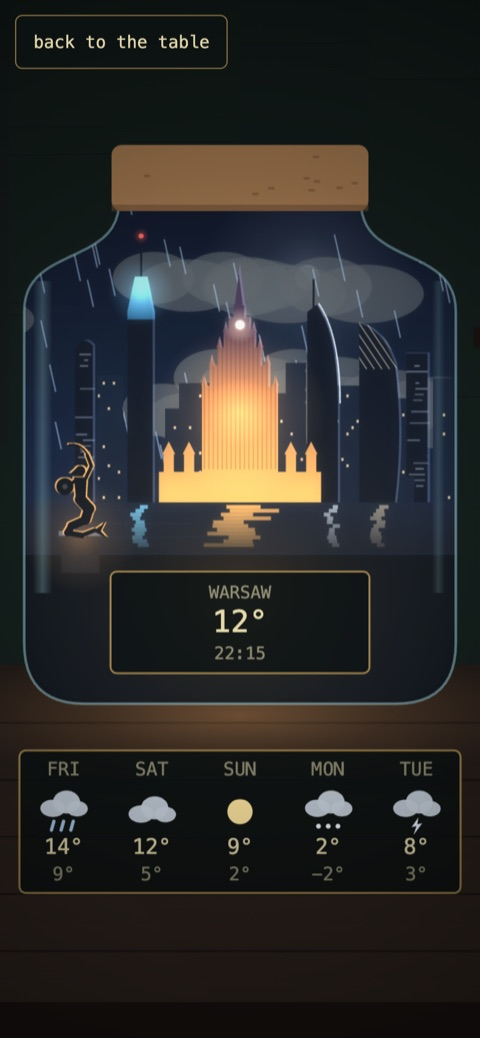
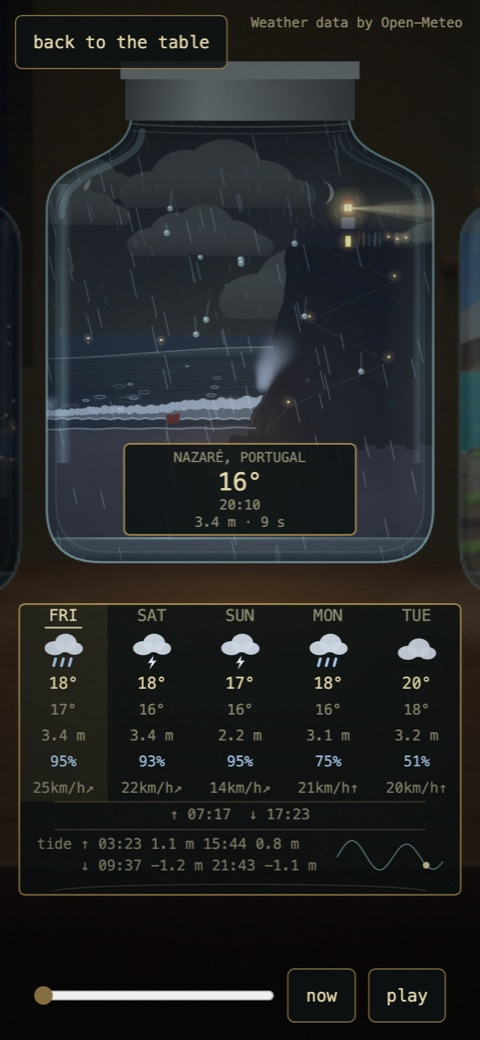
docs: the README for the launch: all three jars, fresh pictures, what you can do
New screenshots of the table, each jar by day and night, the four wave sizes,
the four Fitz Roy bands, the weather kinds, a storm and a phone. Adds the live
link, the shake, the time-lapse, the day preview and each jar's own life.

Claude-Session: https://claude.ai/code/session_01L9HtRGeXZgKwKkUsebrUgD

diff --git a/README.md b/README.md
@@ -5,6 +5,10 @@
 <h1 align="center">jar</h1>
 
 <p align="center">
+  <a href="https://jar-pearl.vercel.app"><b>jar-pearl.vercel.app</b></a>
+</p>
+
+<p align="center">
   <img src="https://img.shields.io/badge/Canvas%202D-no%20build%20step-1b2440" alt="Canvas 2D, no build step">
   <img src="https://img.shields.io/badge/runtime%20libraries-none-b8975a" alt="no runtime libraries">
   <img src="https://img.shields.io/badge/node-22%2B-3c873a" alt="Node 22+">
@@ -21,87 +25,178 @@ on each glass gives the city and country, the temperature and the local time,
 on Nazaré's jar the swell as well, and on El Chaltén's whether you can see
 Fitz Roy today.
 
-<img src="docs/images/table.jpg" alt="The shed: a moonlit window on the left and two glowing jars on the wooden table. Left, a corked jar with Warsaw in the rain, the floodlit Palace of Culture between the towers, labelled WARSAW, POLAND 12° 16:44. Right, a tin-lidded jar with the Nazaré cliff, its fort and red-roofed lighthouse above a breaking wave with small surfers, labelled NAZARÉ, PORTUGAL 18° 15:44 4.2 m · 14 s." width="880">
+<img src="docs/images/table.jpg" alt="The shed: a window with a crescent moon and three glowing jars on the wooden table. Left, a corked jar with Warsaw after dark, the Palace of Culture floodlit gold, labelled WARSAW, POLAND 6° 17:50. Middle, a tin-lidded jar with the Nazaré cliff and lighthouse, a green wave breaking and the sun low over the sea, labelled NAZARÉ, PORTUGAL 18° 16:50 4.4 m · 14 s. Right, a corked jar with Fitz Roy above a turquoise lake in daylight, a banner cloud streaming off the summit, labelled EL CHALTÉN, ARGENTINA 12° 13:50 FITZ ROY · SMOKING. A chalked slate on the table says click a jar." width="880">
 
-## What you're looking at
+The picture above is one moment: evening in Warsaw, the last half hour of sun
+in Nazaré and early afternoon in Patagonia. Nothing in it is a photograph or an
+image file; every jar is drawn in code, every frame.
 
-**The moon is the real one.** The moon in the jars and in the window shows its phase for the moment, from a thin crescent to full, and on a new moon night it is almost gone.
+## What you can do
 
-**Click or tap a jar and it lifts closer.** Until you lift one for the first
-time, a small chalked slate lying on the table says so ("tap a jar" on a phone,
-"click a jar" on a laptop). A card beside it shows the next
-five days: today is marked with a band and an underline (and named *today* for
-screen readers), each day gives its chance of rain and its strongest wind with
-an arrow for the way it blows, and a strip along the bottom gives today's
-sunrise and sunset (on Nazaré, a second line adds today's high and low tide
-times) with a thin arc under it whose dot shows how far the sun has come across the
-sky. On a lifted jar the arrows, the arrow keys or a swipe move to the other
-jar. Press Escape or the back button to set it down. The shed's own window
-follows *your* clock, not either city's. A slider under the lifted jar previews
-the next 24 hours (the light and the hourly weather, with the label marked
-"+5 h"); let go of it or press *now* and the jar snaps back to the present.
+- **Click or tap a jar** and it lifts closer, with a five-day forecast card
+  beside it (under it on a phone). Until you lift one for the first time, a
+  chalked slate on the table says so.
+- **Press the lifted jar** and it shakes: it leans, the scene sloshes, and a
+  flurry lifts off the floor of the jar and settles (snow when it is cold
+  there, warm glitter when it is not).
+- **Drag the slider** under the jar to preview the next 24 hours: the light and
+  the hourly weather move with it and the label says how far ahead you are
+  ("+5 h"). Let go, or press *now*, and the jar returns to the present.
+- **Press *play*** and the next 24 hours run by in twenty seconds.
+- **Click a day on the card** and the jar shows that day's early afternoon;
+  click it again, or press Escape, to come back.
+- **Arrows, the arrow keys or a swipe** move to the next jar. Escape or *back
+  to the table* sets the jar down.
+- **Move the pointer** and the scene slides a little behind the glass, as it
+  would if you leaned to one side.
+
+The shed's own window follows *your* clock, not any city's, and its moon is the
+real one: the right phase for tonight, almost gone at new moon. If your system
+asks for reduced motion, the page calms down: the jar does not shake, the
+time-lapse steps an hour at a time, the clouds barely drift and a storm draws
+no bolt.
+
+## The three jars
+
+### Warsaw
 
 <table>
   <tr>
-    <td width="50%"><img src="docs/images/night.jpg" alt="The lifted jar at 01:30 in Warsaw: the Palace of Culture floodlit gold with a gold reflection in the river, Varso's crown glowing blue under a red aviation light, the Spire with a thin white edge, and the Mermaid outlined in warm light on her plinth at the left. A five-day forecast card stands beside the jar." width="430"></td>
-    <td width="50%"><img src="docs/images/morning.jpg" alt="The same jar at 10:30: a blue sky with the sun on the left, the towers as flat cool silhouettes with a bright rim on their left edges, a calm blue river above the label, and the Mermaid as a dark silhouette on her plinth." width="430"></td>
+    <td width="50%"><img src="docs/images/warsaw-night.jpg" alt="The Warsaw jar lifted at 19:10: the Palace of Culture floodlit gold, Varso's crown glowing blue under a red aviation light, lit windows in the towers, car lights on the cable-stayed bridge and the city's lamps reflected in the Vistula. The forecast card beside it lists five days with rain chance and wind, and sunrise 06:51, sunset 15:48." width="430"></td>
+    <td width="50%"><img src="docs/images/warsaw-day.jpg" alt="The same jar at 11:20 on a November morning: glass towers under a blue sky with drifting clouds, the sand-coloured Palace in the middle, the low city along the far bank, a small boat on the river, the Mermaid on her plinth, and a bank of autumn-brown trees in the foreground." width="430"></td>
   </tr>
   <tr>
-    <td align="center"><b>Night: the Floodlit Nocturne.</b> The Palace glows gold, Varso's crown glows blue under a red needle light, and the towers reflect in the river.</td>
-    <td align="center"><b>Day: rim-lit silhouettes.</b> Each tower has a bright edge on the side the sun is on. At dusk the two blend.</td>
+    <td align="center"><b>Night.</b> The Palace glows gold, Varso's crown glows blue, and the city reflects in the river. Windows go out one by one as the night gets late.</td>
+    <td align="center"><b>Day.</b> Each tower has a bright edge on the side the sun is on. The forest on the near bank follows the seasons.</td>
   </tr>
 </table>
 
 The skyline is the downtown cluster: the Cosmopolitan, Varso, the Palace of
-Culture and Science, Warsaw Spire, Złota 44 and the InterContinental. The
-Mermaid stands on the left bank with her sword raised. The jar's glass streaks
-sit at the edges of the glass, so they never cover a tower.
+Culture and Science, Warsaw Spire, Złota 44 and the InterContinental, with the
+Świętokrzyski bridge across the Vistula and the Mermaid on the left bank with
+her sword raised. Around them the jar has a small life of its own:
 
-### The second jar: Nazaré
+- a **boat** crosses the river by day, **birds** cross the sky in fair weather,
+  and traffic runs over the bridge;
+- in a hard frost the river carries **ice** and **steam** rises from a few
+  roofs, leaning with the wind;
+- a **Christmas tree** stands at the Palace's foot from 6 December to
+  6 January, and there are **fireworks** over the skyline from 23:55 on New
+  Year's Eve to 00:20;
+- in a thunderstorm, every other bolt strikes the Palace's needle.
+
+### Nazaré
 
 <table>
   <tr>
-    <td width="62%"><img src="docs/images/nazare.jpg" alt="The Nazaré jar lifted: the Sítio cliff with the São Miguel Arcanjo fort and its lighthouse on the right, a turquoise wave rolling in with three small surfers, the label reading NAZARÉ, PORTUGAL 18° 15:44 4.2 m · 14 s. Beside it the forecast card lists SUN to THU, each with a peak wave height under the day name; SUN is underlined and shaded as today, and the bottom strip reads sunrise 07:38, sunset 18:30 above a thin arc with the sun dot near its right end." width="530"></td>
+    <td width="62%"><img src="docs/images/nazare-sunset.jpg" alt="The Nazaré jar lifted at 17:02, twenty minutes before sunset: the sun low over the Atlantic in a pink and violet sky, a green wave breaking toward the Sítio cliff, a jet ski on the water, the fort and its red lighthouse on top of the cliff with a zigzag path down its face, and a red flag on the beach. The card lists five days, each with its peak wave height, then sunrise 07:18, sunset 17:22, the four tide times with their heights and a tide curve." width="530"></td>
     <td width="38%">
-      <b>A wave sized by the real sea.</b> The Sítio cliff, the São Miguel Arcanjo fort and its red-roofed lighthouse stand above the Praia do Norte wave. By day a few surfers ride it; at night the lighthouse beam sweeps the foam.<br><br>
-      The wave's size follows the real wave height off the coast: <b>calm</b> under 1 m, <b>moderate</b> 1–3 m, <b>big</b> 3–6 m, <b>giant</b> from 6 m. With no reading it shows a moderate two-metre day.<br><br>
-      The label adds the swell (height · period) as a fourth line, and the forecast card gives each day's peak wave height and today's high and low tide times, each with its height in metres, under a small tide curve with a dot for now. Slide the time ahead through the day and the wave resizes to the forecast swell for that hour. The waves roll in at a gentle pace. The jar keeps Lisbon time and wears a tin lid instead of Warsaw's cork.
+      <b>A wave sized by the real sea.</b> The Sítio headland, the São Miguel Arcanjo fort and its lighthouse stand above the Praia do Norte wave. The view faces west, so this jar has its own sun, which sets into the sea.<br><br>
+      The label adds the swell (height · period) as a fourth line. The card gives each day's peak wave height and today's high and low tides with their heights, over a small tide curve with a dot for now. Slide the time ahead and the wave resizes to the forecast swell for that hour.<br><br>
+      By day surfers ride the wave and people watch from the fort's roof. On a warm, fair, gentle day umbrellas come out on the sand; on a big day the red flag goes up. At night the lighthouse beam sweeps the foam and fishing boats show their lights on the horizon. The jar keeps Lisbon time and wears a tin lid.
     </td>
   </tr>
 </table>
 
-### The third jar: El Chaltén
-
-Not the town but the view from the east shore of Laguna de los Tres, looking
-west: the southern night sky, the blade of Poincenot and the fin of Fitz Roy
-with smaller needles stepping down to the right, the glacier, the big brown
-moraine, the turquoise lake and a gravel shore with a rock, a few shrubs and a
-hiker by day. It answers the question the whole town asks each morning, *can
-you see Fitz Roy today?*, from the real cloud, weather kind and wind, and the
-label's fourth line says which: `FITZ ROY · CLEAR`, `SMOKING` (cloud under
-60 % and wind from 25 km/h: a banner cloud streams off the summit the way the
-wind blows), `CAPPED` (cloud 60 % and over: a deck sits on the summits) or
-`HIDDEN` (cloud 85 % and over, or fog, drizzle, rain, snow, storm: the wall is
-gone). With no reading the peak is drawn clear with a short plume and there is
-no fourth line. First light lands on the summit and walks down the wall after
-sunrise and the lake mirrors it in still air; the sun sets behind the wall; a
-few headlamps wait on the shore in the last ninety minutes before sunrise; the
-seasons run the southern way round (a frozen white lake from June to August).
-The rock is faceted granite built once from a fixed seed and shaded by the
-hour. The jar keeps El Chaltén's own time (`America/Argentina/Rio_Gallegos`) and
-wears a cork lid. It has no screenshot among the pictures above yet; the smoke
-check writes `el-chalten-*.png` to `test-output/`.
+The wave follows the real wave height off the coast, in four sizes. With no
+reading it shows a moderate two-metre day.
 
 <table>
   <tr>
-    <td width="62%"><img src="docs/images/storm.jpg" alt="The lifted jar in a thunderstorm, caught at the moment of a lightning flash: the sky inside the jar turned white, rain streaking down, the floodlit Palace still glowing." width="530"></td>
-    <td width="38%"><img src="docs/images/phone.jpg" alt="The page on a phone, portrait: the lifted jar fills the screen in the rain at night, and the five-day forecast runs as a row under it." width="300"></td>
+    <td width="25%"><img src="docs/images/wave-calm.jpg" alt="Nazaré at noon with a 0.6 m swell: a low ripple of a wave." width="210"></td>
+    <td width="25%"><img src="docs/images/wave-moderate.jpg" alt="Nazaré at noon with a 2 m swell: a modest breaking wave with surfers." width="210"></td>
+    <td width="25%"><img src="docs/images/wave-big.jpg" alt="Nazaré at noon with a 4.6 m swell: a tall wave reaching partway up the cliff, the red flag on the beach." width="210"></td>
+    <td width="25%"><img src="docs/images/wave-giant.jpg" alt="Nazaré at noon with a 9.5 m swell: a tall breaking wave full of white water, spray climbing the cliff and the red flag on the beach." width="210"></td>
   </tr>
   <tr>
-    <td align="center"><b>Real weather.</b> Each jar shows rain, snow (with caps on the roofs), fog, dew on the glass, drifting clouds, wind and lightning. When a new wind reading arrives, the clouds carry on from where they are instead of jumping.</td>
-    <td align="center"><b>Phone and laptop</b> share one drawing, so the jars look the same on both. The forecast moves under the jar on a phone, and a swipe moves between jars.</td>
+    <td align="center"><b>Calm</b><br>under 1 m</td>
+    <td align="center"><b>Moderate</b><br>1–3 m</td>
+    <td align="center"><b>Big</b><br>3–6 m</td>
+    <td align="center"><b>Giant</b><br>from 6 m</td>
   </tr>
 </table>
+
+### El Chaltén
+
+<table>
+  <tr>
+    <td width="50%"><img src="docs/images/el-chalten-first-light.jpg" alt="The El Chaltén jar lifted at 06:22, just after sunrise: Fitz Roy and its needles glowing orange in the first light, the glacier below them, and the whole wall mirrored in a still turquoise lake. A hiker stands on the gravel shore. The label reads EL CHALTÉN, ARGENTINA 4° 06:22 FITZ ROY · CLEAR." width="430"></td>
+    <td width="50%"><img src="docs/images/el-chalten-day.jpg" alt="The same jar at 12:30: grey granite towers with snow in their gullies under a blue sky, the glacier and brown moraine, the turquoise lake mirroring the wall, and hikers on the shore among green shrubs." width="430"></td>
+  </tr>
+  <tr>
+    <td align="center"><b>First light.</b> It lands on the summit and walks down the wall after sunrise. In still air the lake mirrors it.</td>
+    <td align="center"><b>Midday.</b> Faceted granite, shaded by the hour, with hikers on the shore by day.</td>
+  </tr>
+</table>
+
+Not the town but the view from the east shore of Laguna de los Tres, looking
+west: the blade of Poincenot and the fin of Fitz Roy with smaller needles
+stepping down beside them, the glacier, the moraine, the lake and a gravel
+shore. It answers the question the whole town asks each morning, *can you see
+Fitz Roy today?*, from the real cloud, weather and wind, and the label's fourth
+line says which:
+
+<table>
+  <tr>
+    <td width="25%"><img src="docs/images/band-clear.jpg" alt="El Chaltén at midday, label FITZ ROY · CLEAR: the whole wall sharp against a blue sky." width="210"></td>
+    <td width="25%"><img src="docs/images/band-smoking.jpg" alt="El Chaltén at midday, label FITZ ROY · SMOKING: a white banner cloud streaming sideways off the summit." width="210"></td>
+    <td width="25%"><img src="docs/images/band-capped.jpg" alt="El Chaltén at midday, label FITZ ROY · CAPPED: a grey deck of cloud sitting on the summits, the lower wall still visible." width="210"></td>
+    <td width="25%"><img src="docs/images/band-hidden.jpg" alt="El Chaltén at midday in rain, label FITZ ROY · HIDDEN: the wall gone into cloud, only the lake and the shore left." width="210"></td>
+  </tr>
+  <tr>
+    <td align="center"><b>Clear</b></td>
+    <td align="center"><b>Smoking</b><br>cloud under 60 %, wind from 25 km/h: a banner cloud streams off the summit the way the wind blows</td>
+    <td align="center"><b>Capped</b><br>cloud 60 % and over: a deck sits on the summits</td>
+    <td align="center"><b>Hidden</b><br>cloud 85 % and over, or fog, rain, snow or a storm</td>
+  </tr>
+</table>
+
+With no reading the peak is drawn clear with a short plume and there is no
+fourth line. The sun sets behind the wall; a few headlamps wait on the shore in
+the last ninety minutes before sunrise; a condor circles when there is wind to
+carry it; and the seasons run the southern way round, with a frozen white lake
+from June to August. The jar keeps El Chaltén's own time
+(`America/Argentina/Rio_Gallegos`) and wears a cork lid.
+
+## Real weather
+
+Each jar is drawn under the weather its place is having now: clear, broken
+cloud, overcast, fog, drizzle, rain, snow and thunderstorms, with the wind
+setting how fast the clouds travel and how far the rain leans.
+
+<table>
+  <tr>
+    <td width="25%"><img src="docs/images/sky-rain.jpg" alt="Nazaré on a rainy night: rain falling across the dark sea and the cliff, rings on the water, drops on the glass and the lighthouse beam in the murk." width="210"></td>
+    <td width="25%"><img src="docs/images/sky-snow.jpg" alt="Warsaw at noon in snow: round flakes in three sizes falling over a grey skyline with white roofs." width="210"></td>
+    <td width="25%"><img src="docs/images/sky-fog.jpg" alt="Warsaw on a foggy morning: the towers pale and half lost, the glass misted over." width="210"></td>
+    <td width="25%"><img src="docs/images/sky-storm.jpg" alt="El Chaltén in a thunderstorm: a dark sky, heavy rain over the lake and the wall hidden." width="210"></td>
+  </tr>
+  <tr>
+    <td align="center"><b>Rain</b> falls in two layers, behind the city and in front of it, lands as rings on open water and runs down the glass in beads.</td>
+    <td align="center"><b>Snow</b> falls in three depths and settles on the roofs.</td>
+    <td align="center"><b>Fog</b> mists the inside of the glass. When it clears it leaves dew.</td>
+    <td align="center"><b>A heavy sky</b> turns grey whatever the hour, hides the sun and drains the colour from the scene.</td>
+  </tr>
+</table>
+
+<table>
+  <tr>
+    <td width="62%"><img src="docs/images/storm.jpg" alt="The Warsaw jar in a thunderstorm at 21:00, caught at the moment of a flash: the sky inside the jar white, a forked bolt coming down toward the Palace's needle, the towers in black silhouette and rain streaking across the whole scene." width="530"></td>
+    <td width="38%"><img src="docs/images/phone.jpg" alt="The page on a phone, portrait: the Nazaré jar lifted on a rainy night, and under it the five-day forecast as a row of columns with wave heights, rain chance, wind, sunrise and sunset, tide times and a tide curve; the slider with now and play at the bottom." width="300"></td>
+  </tr>
+  <tr>
+    <td align="center"><b>Lightning.</b> A storm flashes at intervals and draws a forked bolt; the flash lights the room around the jar too. When a new reading changes the sky, the old one fades into the new.</td>
+    <td align="center"><b>Phone and laptop</b> share one drawing, so the jars look the same on both. On a phone the forecast moves under the jar and a swipe moves between jars.</td>
+  </tr>
+</table>
+
+The forecast card marks today with a band and an underline (and names it
+*today* for screen readers). Each day gives its high and low, its chance of
+rain and its strongest wind with an arrow for the way it blows; a strip along
+the bottom gives today's sunrise and sunset over a thin arc whose dot shows how
+far the sun has come across the sky. If the weather cannot be fetched, the jars
+still light for the hour under a neutral sky and the label shows a dash instead
+of a temperature.
 
 ## How it's made
 
@@ -118,7 +213,8 @@ flowchart LR
   B --> C["shed.js<br/>room, window, table"]
   B --> D["shelf.js<br/>the jars"]
   D --> E["jar.js<br/>glass, cork, label"]
-  E --> F["cities/warsaw<br/>cities/nazare<br/>scene + palette"]
+  E --> F["cities/warsaw<br/>cities/nazare<br/>cities/el-chalten<br/>scene + palette"]
+  E --> S["skyweather.js<br/>sun, moon, clouds,<br/>rain, snow, lightning"]
   E --> G["look/lantern<br/>colours, glow, streaks"]
   B --> H["weatherfeed.js"]
   H -->|"GET /api/weather"| I["api/weather.js"]
@@ -134,6 +230,13 @@ flowchart LR
 - **The same moment draws the same picture.** Draw code never calls
   `Math.random` or reads the wall clock, and the smoke check hashes a pinned
   frame twice to prove it.
+- **A city only draws its place.** The sky, the weather and the glass are
+  shared (`src/skyweather.js`, `src/jar.js`); a city supplies its scene, its
+  palette and, if it wants them, a label line, a redraw interval, a rectangle
+  of open water for the rain to land on and a point for lightning to strike.
+- **Frames stay cheap.** The static art is built once, the room behind a
+  lifted jar is kept between frames, and the page only redraws as often as
+  the weather or a moving scene asks for.
 - The clock logic is adapted from Memory Lane, an earlier project by the same
   author, and credited in the file headers. None of the visual code comes from
   there.
@@ -185,7 +288,7 @@ npm test                          # unit tests (node --test)
 SMOKE_TIMING=off npm run smoke    # headless Chromium; drop SMOKE_TIMING=off to hold frame budgets
 ```
 
-The smoke check drives a real page. It pins a Warsaw night and a Warsaw
+The smoke check drives a real page in a headless browser. It pins a Warsaw night and a Warsaw
 morning and samples pixels to check the gold Palace, the blue crown, the red
 light, the reflections, the Mermaid's rim and the morning rim. For Nazaré it
 checks both labels, both lifts, moving between jars by arrow and by swipe, the
@@ -196,7 +299,7 @@ mirror, the headlamps, the bivouac light, the frozen July lake, that the facets
 are lit by the hour and that a pinned moment draws the same pixels. It also
 checks the forecast card's today mark, sunrise and sunset strip and sun arc,
 and that clouds hold their place when the wind changes. Its screenshots
-go to `test-output/`, which is where the pictures above come from. It needs a
+go to `test-output/`. It needs a
 Chromium: run `npx playwright-core install chromium-headless-shell`, or it
 falls back to an installed Chrome. The weather is stubbed in every test and in
 the smoke check, so nothing touches the network.
